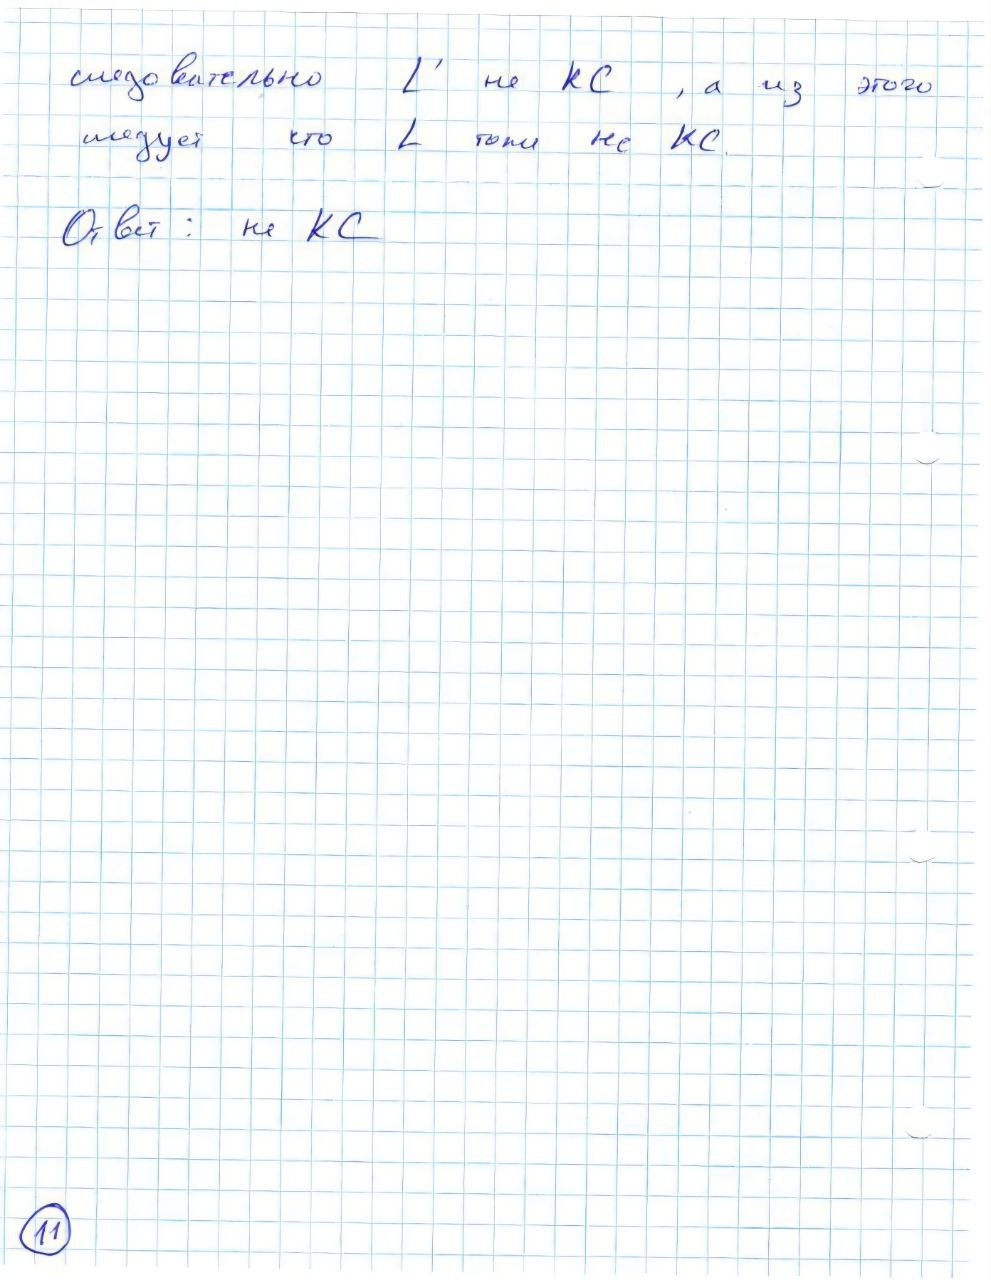
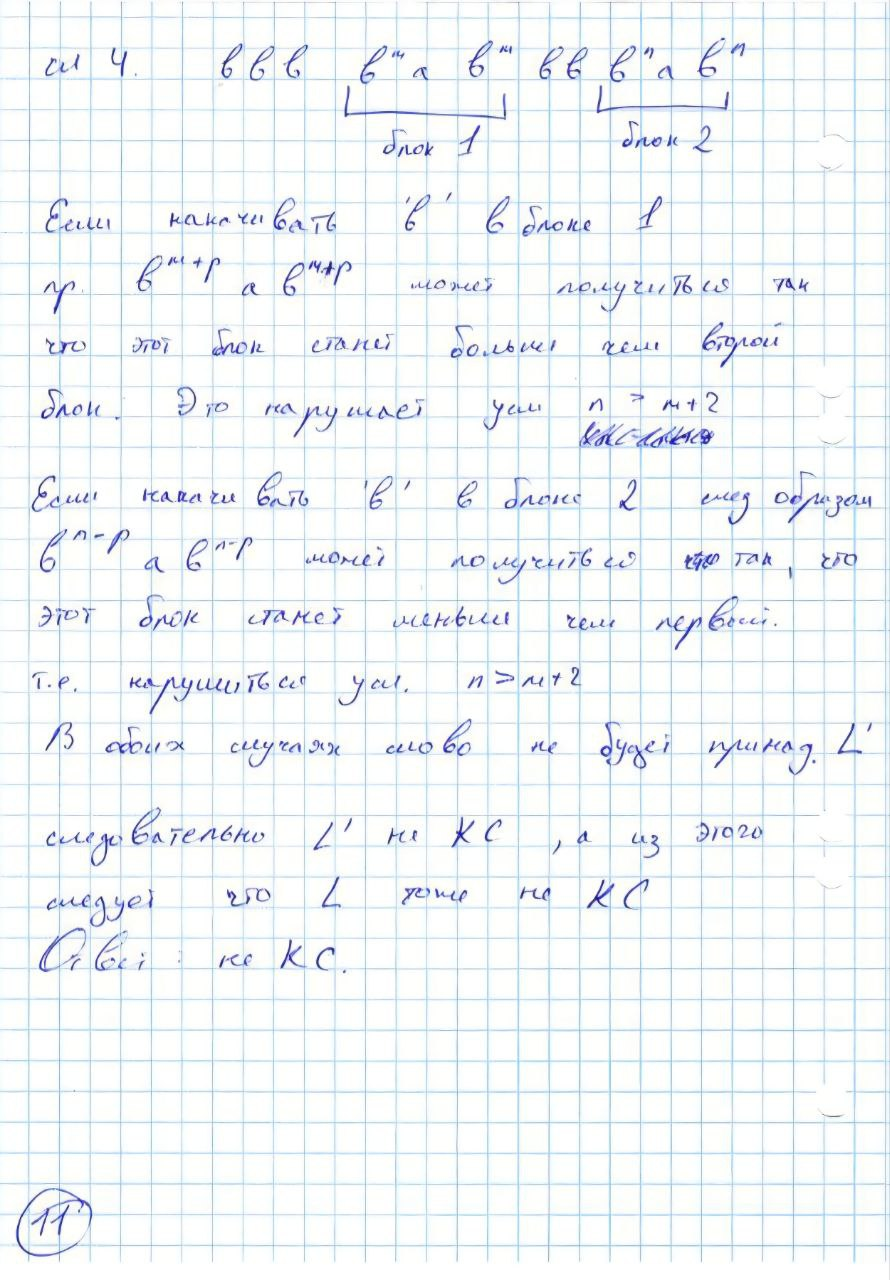
Дополнено решение номера 3

Changed region(s): [[0.0, 0.0, 1.0, 1.0]]

diff --git a/Rk2/README.md b/Rk2/README.md
@@ -4,7 +4,7 @@
 
 Вариант №13 
 
-**1. Язык SRS с правилами ав → baa, aaa → a, ba → ab над базисом a^nb^n^2**
+**1. Язык SRS с правилами ав → baa, aaa → a, ba → ab над базисом a^nb^n^2.**
 
 Решение:
 ![№1 стр.1](solutions/num1_s1.jpg)
